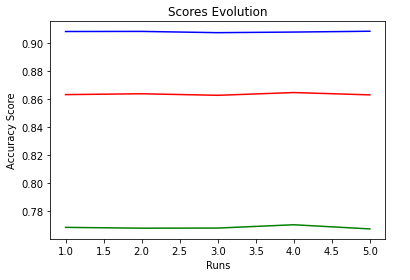
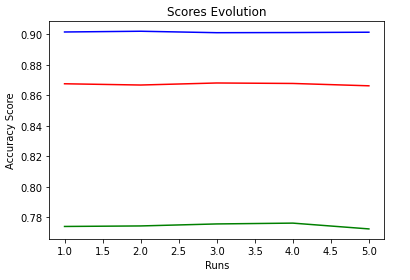
files uploaded

diff --git a/model_evaluation.py b/model_evaluation.py
@@ -1,7 +1,7 @@
 from pandas.core.frame import DataFrame
 from sklearn.model_selection import GridSearchCV, train_test_split
 from sklearn.model_selection import cross_val_score, KFold
-from sklearn.metrics import confusion_matrix, roc_auc_score, roc_curve, auc, classification_report
+from sklearn.metrics import confusion_matrix, roc_auc_score, roc_curve, auc, classification_report, plot_confusion_matrix, accuracy_score
 import typing
 import numpy as np
 import pandas as pd
@@ -14,58 +14,111 @@ train_path = 'assets/cleaned/data_train.csv'
 test_path = 'assets/cleaned/data_test.csv'
 
 # Read datasets from csv
-def reading_csv_to_df(path_1: str, path_2: str) -> pd.DataFrame:
+def reading_csv_to_df(path_1: str, path_2: str):
     df_income_train = pd.read_csv(path_1)
     df_income_test = pd.read_csv(path_2)
     return df_income_train, df_income_test
 
 df_train, df_test = reading_csv_to_df(train_path, test_path)
 
+# Full dataset
+df_income = df_train.append(df_test)
 
-#Merge datasets
-df_income = df_train.merge(df_test, how='outer')
-
-#Features and Target
+# Split dataset
 X = df_income.drop(columns=['income'])
 y = df_income['income']
+X_train, X_test, y_train, y_test = train_test_split(X,y, random_state=42, test_size=0.2, stratify=y)
 
 #RandomForest Classifier
 #Model Tuning & Evaluation
 
-# Splitting Train-test RandomState
-def spliting_data(X: pd.DataFrame, y:pd.Dataframe) -> pd.DataFrame:
-    for random_state in range(4):
-        X_train, X_test, y_train, y_test = train_test_split(X,y, random_state=random_state, test_size=0.3)
-        classifier = RandomForestClassifier(random_state=1)
-        classifier.fit(X_train, y_train)
-        score=classifier.score(X_test, y_test)
-        print("Evaluating the model on the testing set yields an accuracy of {:.2f}% with random state {}".format(score*100, random_state))
-    return X_train, X_test, y_train, y_test
-    
-X_train, X_test, y_train, y_test = spliting_data(X,y)
-
-
-# CrossValidation
-classifier = RandomForestClassifier(random_state=2)
-for k in range(5,10):
-    scores = cross_val_score(classifier, X, y, cv=k) # cv is the number of folds (k)
-    print(scores)
-    print("Accuracy: {:.2f}% (+/- {:.2f})".format(scores.mean() * 100, scores.std() * 100))
-
-
 #GridSearchCV
 def searching_best_features(X_train: pd.DataFrame, y_train: pd.DataFrame): 
+    #GridSearchCV
+    rfc = RandomForestClassifier()
     param_grid = { 
-        'n_estimators': [100,800],
+        'n_estimators': [5,10,50,100,250],
         'criterion': ['gini', 'entropy'],
-        'max_features': ['auto', 'sqrt', 'log2']
-    }
-    classifier_cv = GridSearchCV(estimator=classifier, param_grid=param_grid, scoring='accuracy',cv= 7, verbose=0, n_jobs=-1)
-    return classifier_cv.fit(X_train, y_train)
+        'max_features': ['auto', 'sqrt', 'log2'],
+        'max_depth': [2,4,8,16,32,None]}
+    cv = GridSearchCV(rfc, param_grid=param_grid, scoring='accuracy',cv= 5, n_jobs=-1)
+    return cv.fit(X_train, y_train.values.ravel())
 
-result = searching_best_features(X_train, y_train)
-random_forest = result.best_estimator_
-score = random_forest.score(X_test, y_test)
-print("The best parameters are :", result.best_params_)
-print("The best accuracy is {:.2f}%:".format(result.best_score_ * 100))
-print("The generalization accuracy of the model is {:.2f}%".format(score * 100))
+#CV results
+def display(results):
+    print(f'Best parameters are: {results.best_params_}')
+    print("\n")
+    #mean_score = results.cv_results_['mean_test_score']
+    #std_score = results.cv_results_['std_test_score']
+    #params = results.cv_results_['params']
+    #for mean,std,params in zip(mean_score,std_score,params):
+    #    print(f'{round(mean,3)} + or -{round(std,3)} for the {params}')
+
+cv = searching_best_features(X_train, y_train)
+display(cv)
+
+
+#Final model and results (metrics + roc plot)
+def evaluating_classifier(cv: RandomForestClassifier, X_train: pd.DataFrame, y_train: pd.DataFrame, X_test: pd.DataFrame, y_test: pd.DataFrame):
+    cv = RandomForestClassifier(n_estimators=100, max_depth=16, max_features='sqrt', criterion='gini').fit(X_train, y_train)
+    #CrossValidation on training set
+    scores = cross_val_score(cv, X_train, y_train, cv=5) # cv is the number of folds (k)
+    print(scores)
+    print("CV Training Accuracy: {:.2f}% (+/- {:.2f})".format(scores.mean() * 100, scores.std() * 100))
+    #model prediction
+    y_pred = cv.predict(X_test)
+    #Confusion matrix
+    print(confusion_matrix(y_test, y_pred))
+    plot_confusion_matrix(cv, X_test, y_test)
+    plt.show()
+    #Classification Report
+    print(classification_report(y_test, y_pred))
+
+    # Compute ROC curve and ROC area
+    fpr, tpr, _ = roc_curve(y_test, y_pred)
+    roc_auc = auc(fpr, tpr)
+    # Plot ROC curve and ROC area and AUC Curve
+    plt.figure()
+    lw = 2
+    plt.plot(fpr, tpr, color='darkorange',
+             lw=lw, label='ROC curve (area = %0.2f)' % roc_auc)
+    plt.plot([0, 1], [0, 1], color='navy', lw=lw, linestyle='--')
+    plt.xlim([0.0, 1.0])
+    plt.ylim([0.0, 1.05])
+    plt.xlabel('False Positive Rate')
+    plt.ylabel('True Positive Rate')
+    plt.title('RandomForestClassifier(hypertuning) Income prediction')
+    plt.legend(loc="lower right")
+    plt.show()
+
+    #Accuracy Scores
+    print("ROC-AUC Score: ", roc_auc_score(y_test, y_pred))
+    roc_evolution = roc_auc_score(y_test, y_pred)
+    train_score_evolution = cv.score(X_train, y_train)
+    print("Evaluating the model on the training set yields an accuracy of {:.2f}%".format(train_score_evolution*100))
+    test_score_evolution = cv.score(X_test, y_test)
+    print("Evaluating the model on the testing set yields an accuracy of {:.2f}%".format(test_score_evolution*100))
+    return roc_evolution, train_score_evolution, test_score_evolution
+
+#Split dataset again (different random_state)
+X_train, X_test, y_train, y_test = train_test_split(X,y, random_state=2, test_size=0.2, stratify=y)
+
+# Follow-up on Scores
+train_score_evolution = []
+test_score_evolution = []
+roc_evolution = []
+# Run 5 times the model (CV and fit)
+for i in range(1,6):
+    roc_evo, train_score_evo, test_score_evo = evaluating_classifier(cv, X_train, y_train, X_test, y_test)
+    roc_evolution.append(roc_evo)
+    train_score_evolution.append(train_score_evo)
+    test_score_evolution.append(test_score_evo)
+
+#Plot Scores evolution
+n_experim = [1,2,3,4,5]
+plt.plot(n_experim, train_score_evolution, c='blue')
+plt.plot(n_experim, test_score_evolution, c='red')
+plt.plot(n_experim, roc_evolution, c='green')
+plt.xlabel('Runs')
+plt.ylabel('Accuracy Score')
+plt.title('Scores Evolution')

diff --git a/README.md b/README.md
@@ -54,6 +54,8 @@ The datasets `data_train.csv` and `data_test.csv`
 Evaluating the model on the training set yields an accuracy of 99.99%<br/>
 Evaluating the model on the testing set yields an accuracy of 85.30%
 
+**Note: The model shows overfitting**
+
 * Confusion Matrix<br/>
 [[11559   876]<br/>
  [ 1518  2328]]
@@ -84,52 +86,79 @@ Evaluating the model on the testing set yields an accuracy of 85.73% with random
 * **Best Parameters: {criterion: 'gini','max_features': 'auto', 'n_estimators': 250, 'max_depth: 16}**
 
 ### Step 3: Evaluating Results
-#### Model Run 5 times (Including TrainSet CrossValidation)
+#### Model Run 5 times (Including CrossValidation)
 
-**1st Run:**
+**1st Run**
+<p align='center'>
+    <img src='assets/run_01.png' width='600'>
+<p/>
 
-<p align="center">
-    <img src='assets/run.PNG' width='575'>
-</p>
+<p align='center'>
+    <img src='assets/run_01b.PNG' width='600'>
+<p/>
 
+**2nd Run**
+<p align='center'>
+    <img src='assets/run_02.PNG' width='600'>
+<p/>
 
-**2nd Run:**
+<p align='center'>
+    <img src='assets/run_02b.png' width='600'>
+<p/>
 
-<p align="center">
-    <img src='assets/run_02.PNG' width='575'>
-</p>
+**3rd Run**
+<p align='center'>
+    <img src='assets/run_03.PNG' width='600'>
+<p/>
 
+<p align='center'>
+    <img src='assets/run_03b.png' width='600'>
+<p/>
 
-**3rd Run:**
+**4th Run** 
+<p align='center'>
+    <img src='assets/run_04.PNG' width='600'>
+<p/>
 
-<p align="center">
-    <img src='assets/run_03.PNG' width="575">
-</p>
+<p align='center'>
+    <img src='assets/run_04b.png' width='600'>
+<p/>
 
+**5th Run** 
 
-**4th Run:**
+<p align='center'>
+    <img src='assets/run_05.PNG' width='600'>
+<p/>
 
-<p align="center">
-    <img src='assets/run_04.PNG' width="575">
-</p>
-
-
-**5th Run:**
-
-<p align="center">
-    <img src='assets/run_05.PNG'width="575">
-</p>
+<p align='center'>
+    <img src='assets/run_05b.png' width='600'>
+<p/>
 
 ### Evolution of Scores<br/>
-
-<p align="center">
-    <img src="assets/score_evo.PNG" width='820' height='560'>
-</p>
-
 **Legend:**<br/>
 <span style="color: blue;">**Blue = Training Set**</span><br/>
 <span style="color: red;">**Red = Test Set**</span><br/>
 <span style="color: green;">**Green = ROC-AUC Score**</span><br/>
+<p align="center">
+    <img src="assets/score_evo.PNG" width='820' height='560'>
+</p>
+
+### Conclusions
+
+* The Initial model shows:<br/>
+**Training set score: 99.99% (overfitting)**<br/>
+**Test set score: 85.30%**<br/>
+* The final model after tuning shows:<br/>
+**Max Training set score: 90.19%**<br/>
+**Max Test set score: 86.81%**<br/>
+
+* Evaluation Techniques used:<br/>
+**train_test_split** - random_state [1-4]<br/>
+**GridSearchCV** - best_params_<br/>
+![best parameters (Image)](assets/best_param.PNG)
+**CrossValidation** - kfold = [4-8]<br/>
+**Metrics** - Confusion Matrix / Classification Report / accuracy_score / ROC-AUC score
+
 
 
 
